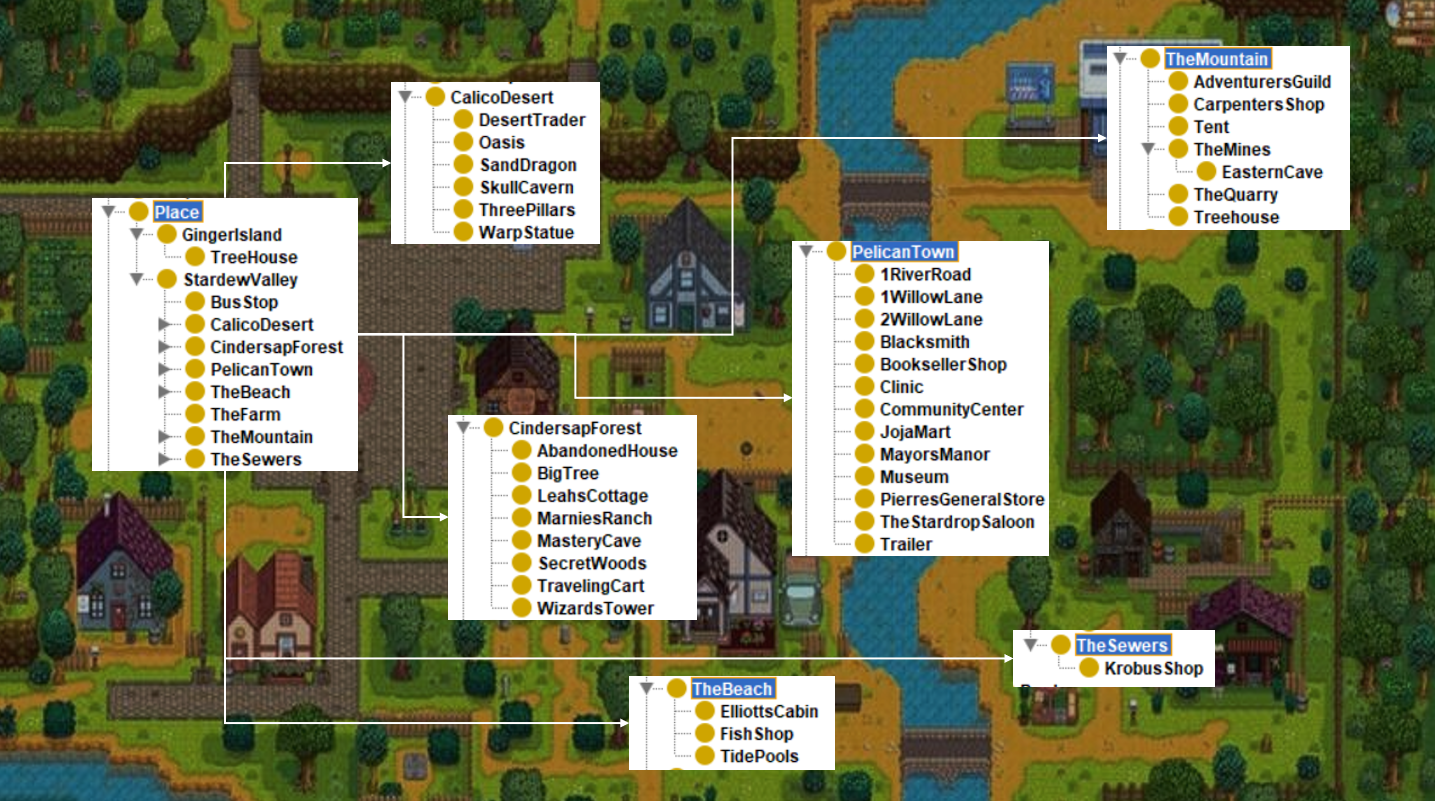
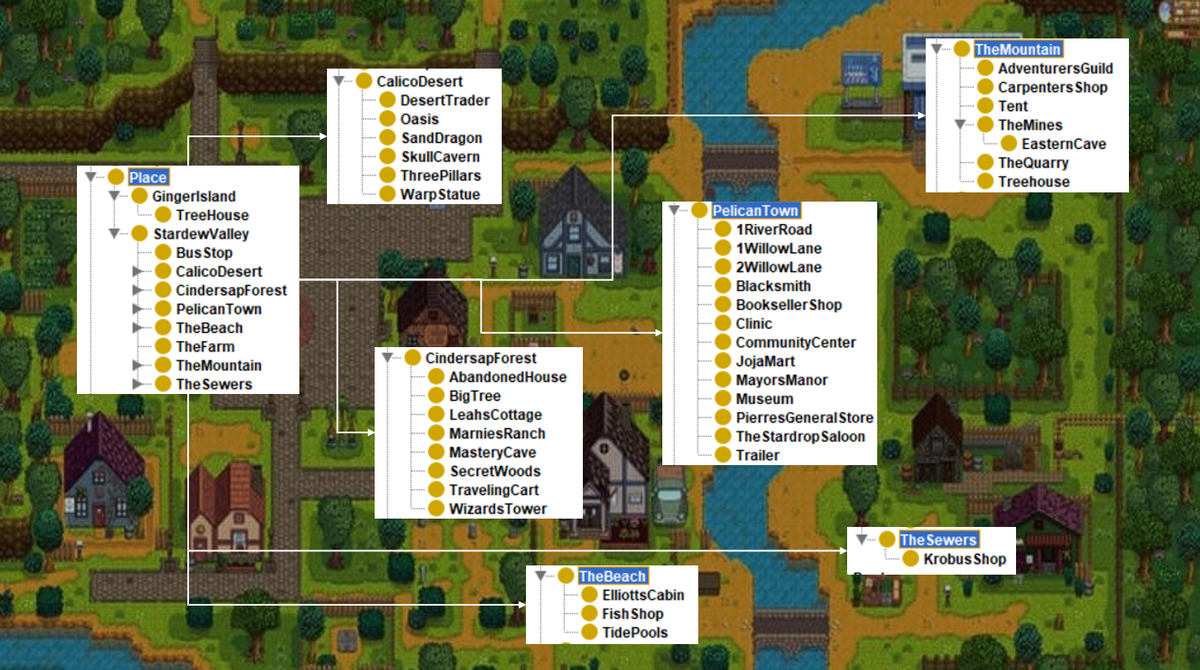
Optimize images, remove unused content and images

diff --git a/README.md b/README.md
@@ -8,11 +8,7 @@ Generated images are further manipulated in Photoshop either to remove blemishes
 
 Videos are generated from which animation frames are created manually. Manual input is required for smooth and effective animations.
 
-[//]: # (Expert system based text adventure game created to showcase possibilities of game development where logic may be off loaded to AI systems. )
-
 Game model and logic offloaded to AI systems has the potential to provide competitive advantage of faster development time and low maintenance in the long-term. Ontology based game modeling can be used to create highly complex game subsystems and interdependent entity logic and components with ease.
-
-[//]: # (and created using ontology based systems. Ontologies and expert system based game development can greatly simplify creating and maintenance which can provided competitive advantage for solo developers.)
 
 AI assistance used in building infrastrucutre support in the form of build files, compiler choices, installation, graphic library setup, editor configuration, language server installation, programming and debugging support.
 
@@ -52,18 +48,6 @@ Package size: 24.5 MB
 [Download zip: 18.8 MB](./packages/rebel_mouse.zip)
 <br>
 After unzipping, run game.bat
-
-[//]: # (## Shape Shifter)
-
-[//]: # (Created using C++ and SFML.)
-
-[//]: # (## Geometry Wars)
-
-[//]: # (Created using C++ and SFML.)
-
-[//]: # (## Expert System-Based Text Adventure Game)
-
-[//]: # (Creatd using CLIPS expert system.)
 
 ## Ontology Case Study of Stardew Valley
 Created using ontologies based on RDF file format. [Protégé](https://protege.stanford.edu/) software is used for easily and visually creating ontologies. An example thin slice of the gifting subsystem of the game Stardew Valley was created as an example how such AI systems and models can be used for game development. 
